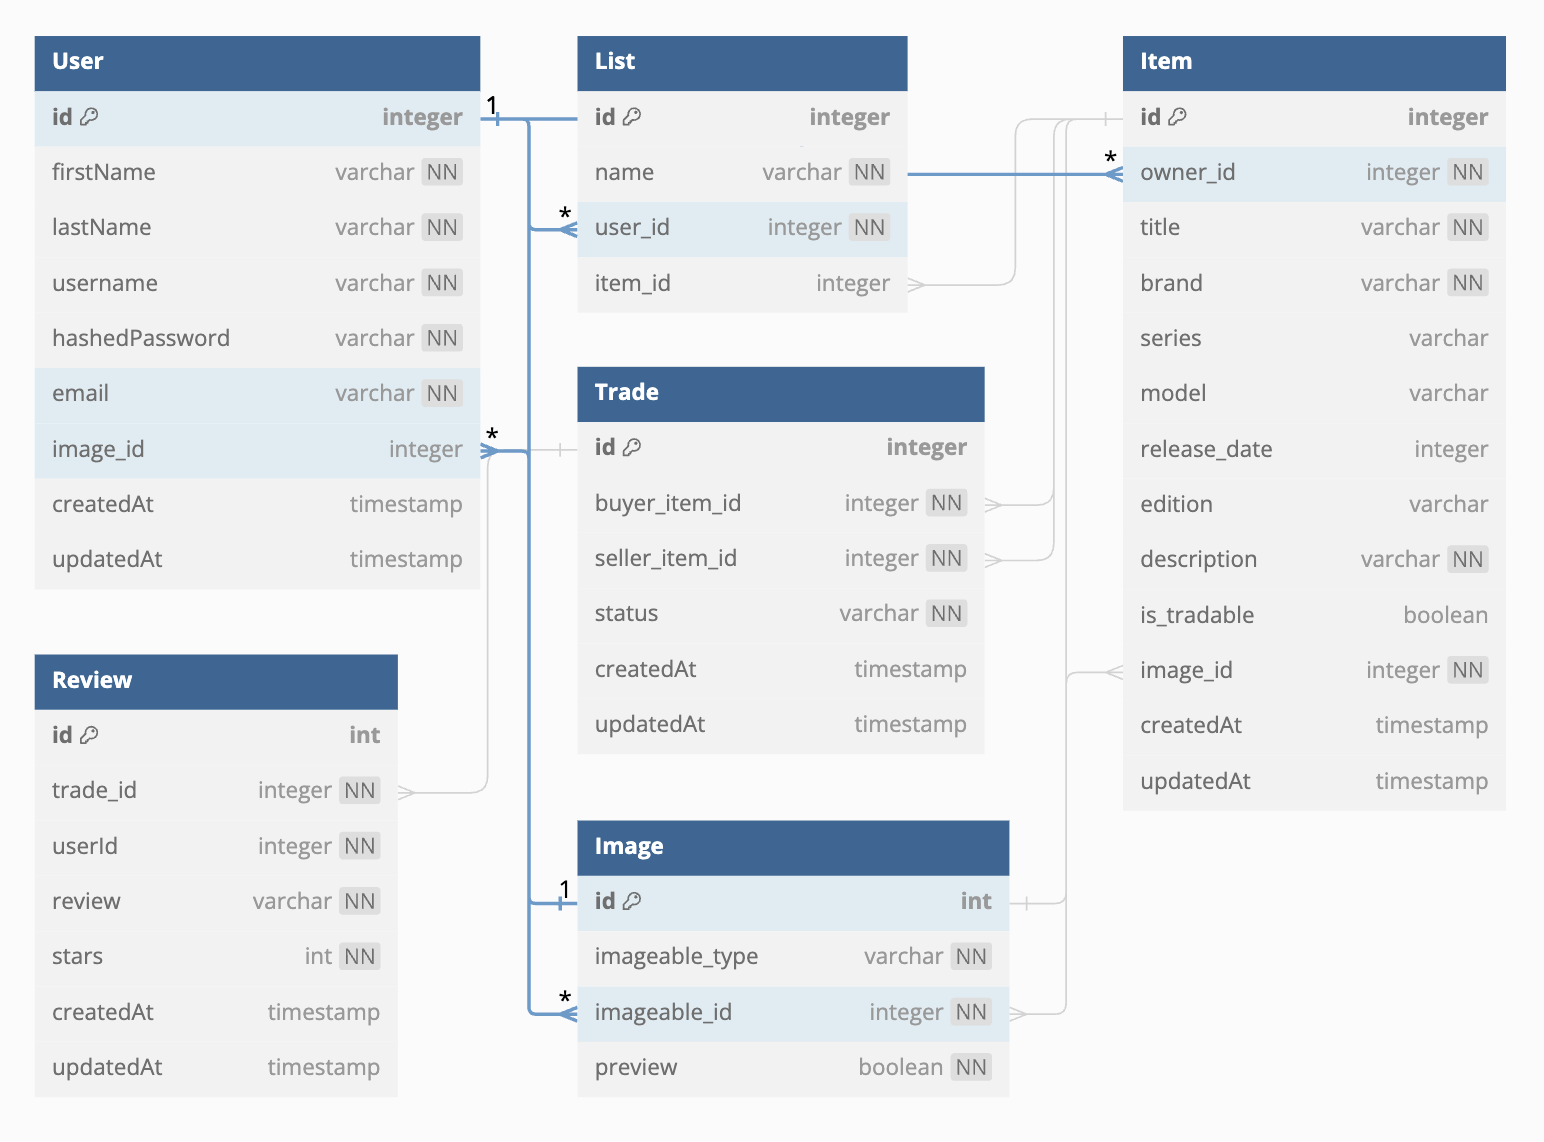
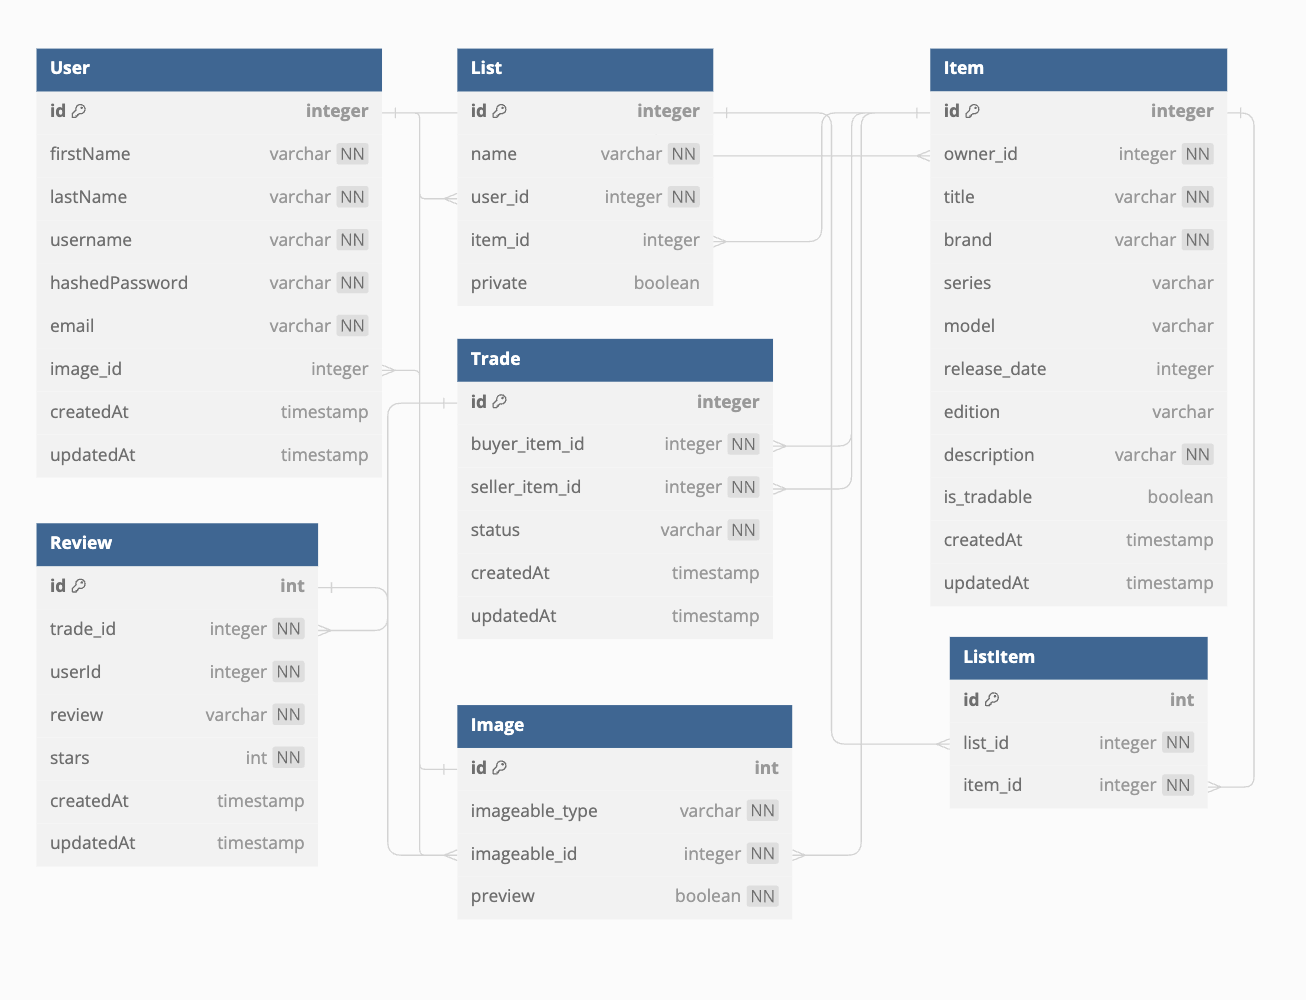
schema updated

diff --git a/schema.md b/schema.md
@@ -21,7 +21,6 @@ Table Item {
   edition varchar
   description varchar [not null]
   is_tradable boolean
-  image_id integer [not null]
   createdAt timestamp
   updatedAt timestamp
 }
@@ -30,7 +29,7 @@ Table List {
   id integer [pk, increment]
   name varchar [not null]
   user_id integer [not null]
-  item_id integer
+  private boolean
 }
 
 Table Post {
@@ -87,22 +86,30 @@ Table Image {
   preview boolean [not null]
 }
 
+Table ListItem {
+  id int [pk, increment]
+  list_id integer [not null]
+  item_id integer [not null]
+}
+
 Ref: User.image_id > Image.id
 Ref: Item.owner_id > User.id
-Ref: Item.image_id > Image.id
 Ref: Trade.buyer_item_id > Item.id
 Ref: Trade.seller_item_id > Item.id
 Ref: Review.trade_id > Trade.id
 Ref: List.user_id > User.id
 Ref: List.item_id > Item.id
-Ref: Post.user_id > User.id
-Ref: Post.image_id > Image.id
-Ref: Comment.user_id > User.id
-Ref: Comment.image_id > Image.id
-Ref: Like.user_id > User.id
-Ref: Like.likable_id > Comment.id
-Ref: Like.likable_id > Post.id
+Ref: ListItem.item_id > Item.id
+Ref: ListItem.list_id > List.id
+// Ref: Post.user_id > User.id
+// Ref: Post.image_id > Image.id
+// Ref: Comment.user_id > User.id
+// Ref: Comment.image_id > Image.id
+// Ref: Like.user_id > User.id
+// Ref: Like.likable_id > Comment.id
+// Ref: Like.likable_id > Post.id
 Ref: Image.imageable_id > User.id
 Ref: Image.imageable_id > Item.id
-Ref: Image.imageable_id > Post.id
-Ref: Image.imageable_id > Comment.id
+Ref: Image.imageable_id > Review.id
+// Ref: Image.imageable_id > Post.id
+// Ref: Image.imageable_id > Comment.id
